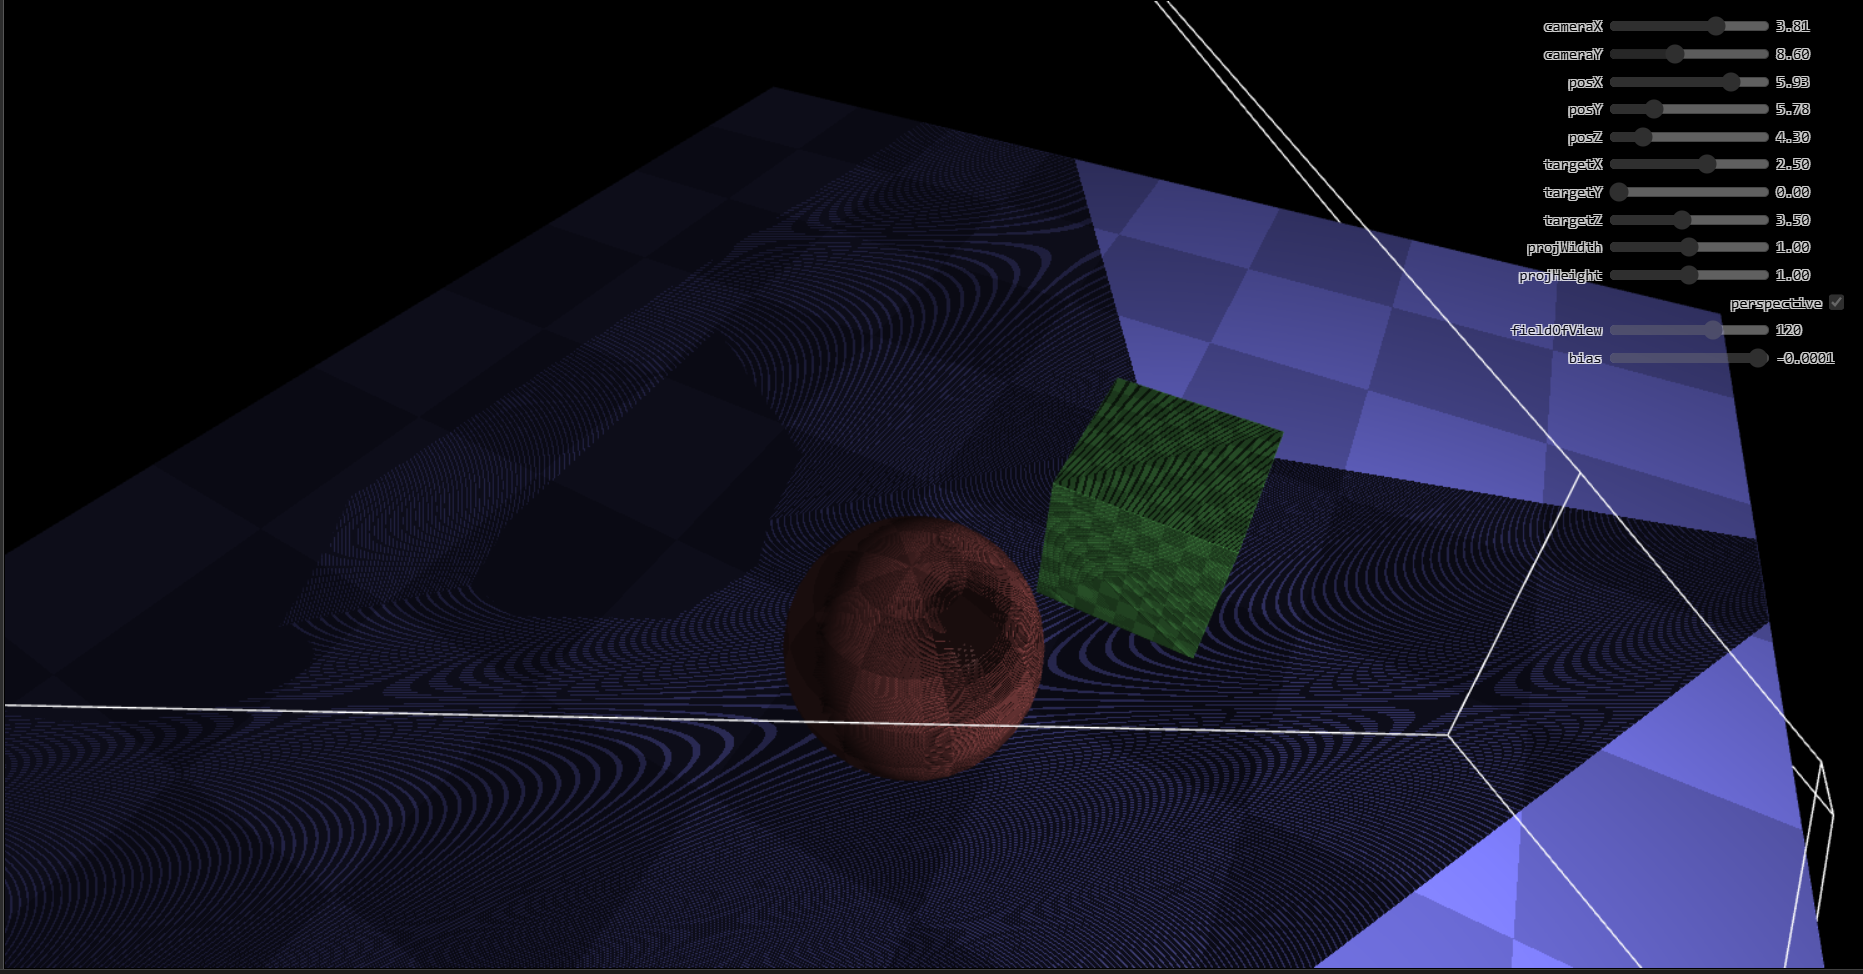
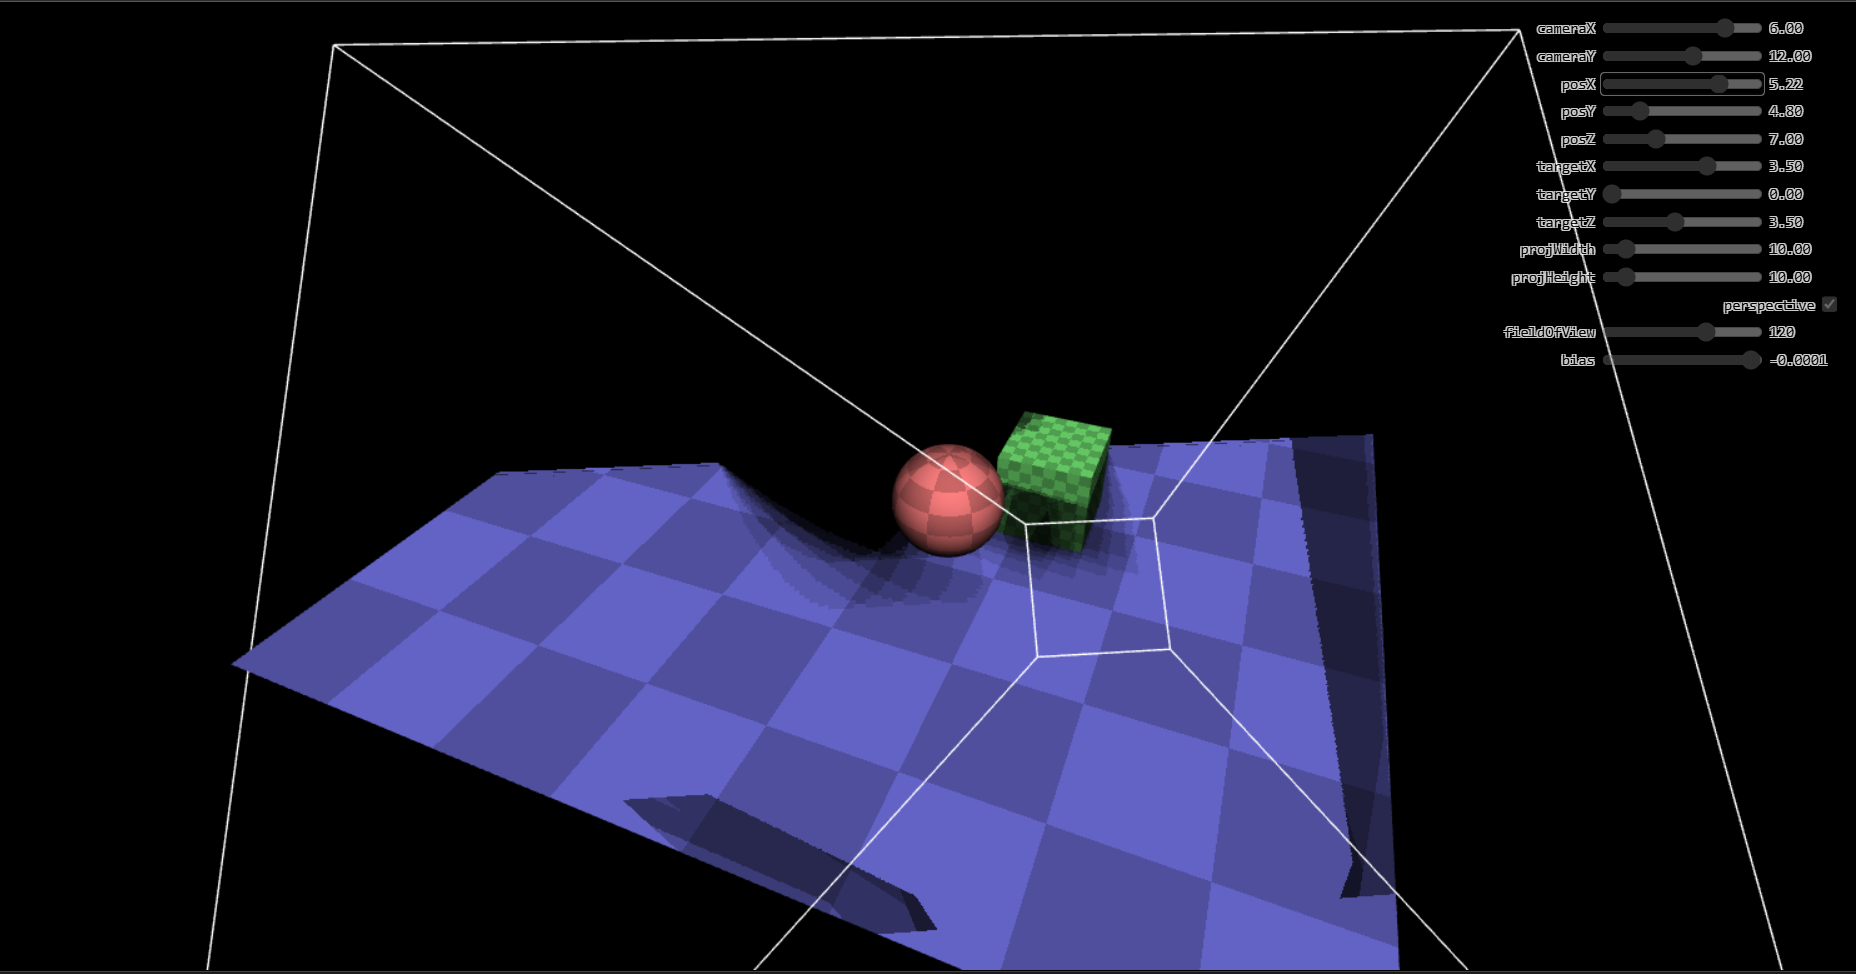
so quero me formar

diff --git a/script.js b/script.js
@@ -82,7 +82,7 @@ void main() {
 
     // Calculate the size of the penumbra using blocker search
     float avgBlockerDepth = SearchBlocker(u_projectedTexture, projectedTexcoord.xy, currentDepth);
-    float penumbraSize = (currentDepth - avgBlockerDepth) * 40.0;  // Adjust this multiplier for the softness
+    float penumbraSize = (currentDepth - avgBlockerDepth) * 20.0;  // Adjust this multiplier for the softness
 
     // Calculate the soft shadow using PCF
     float shadowLight = (inRange && avgBlockerDepth > 0.0)
@@ -281,7 +281,7 @@ function main() {
     projHeight: 10,
     perspective: false,
     fieldOfView: 120,
-    bias: -0.006,
+    bias: -0.0001,
   };
   webglLessonsUI.setupUI(document.querySelector("#ui"), settings, [
     {
